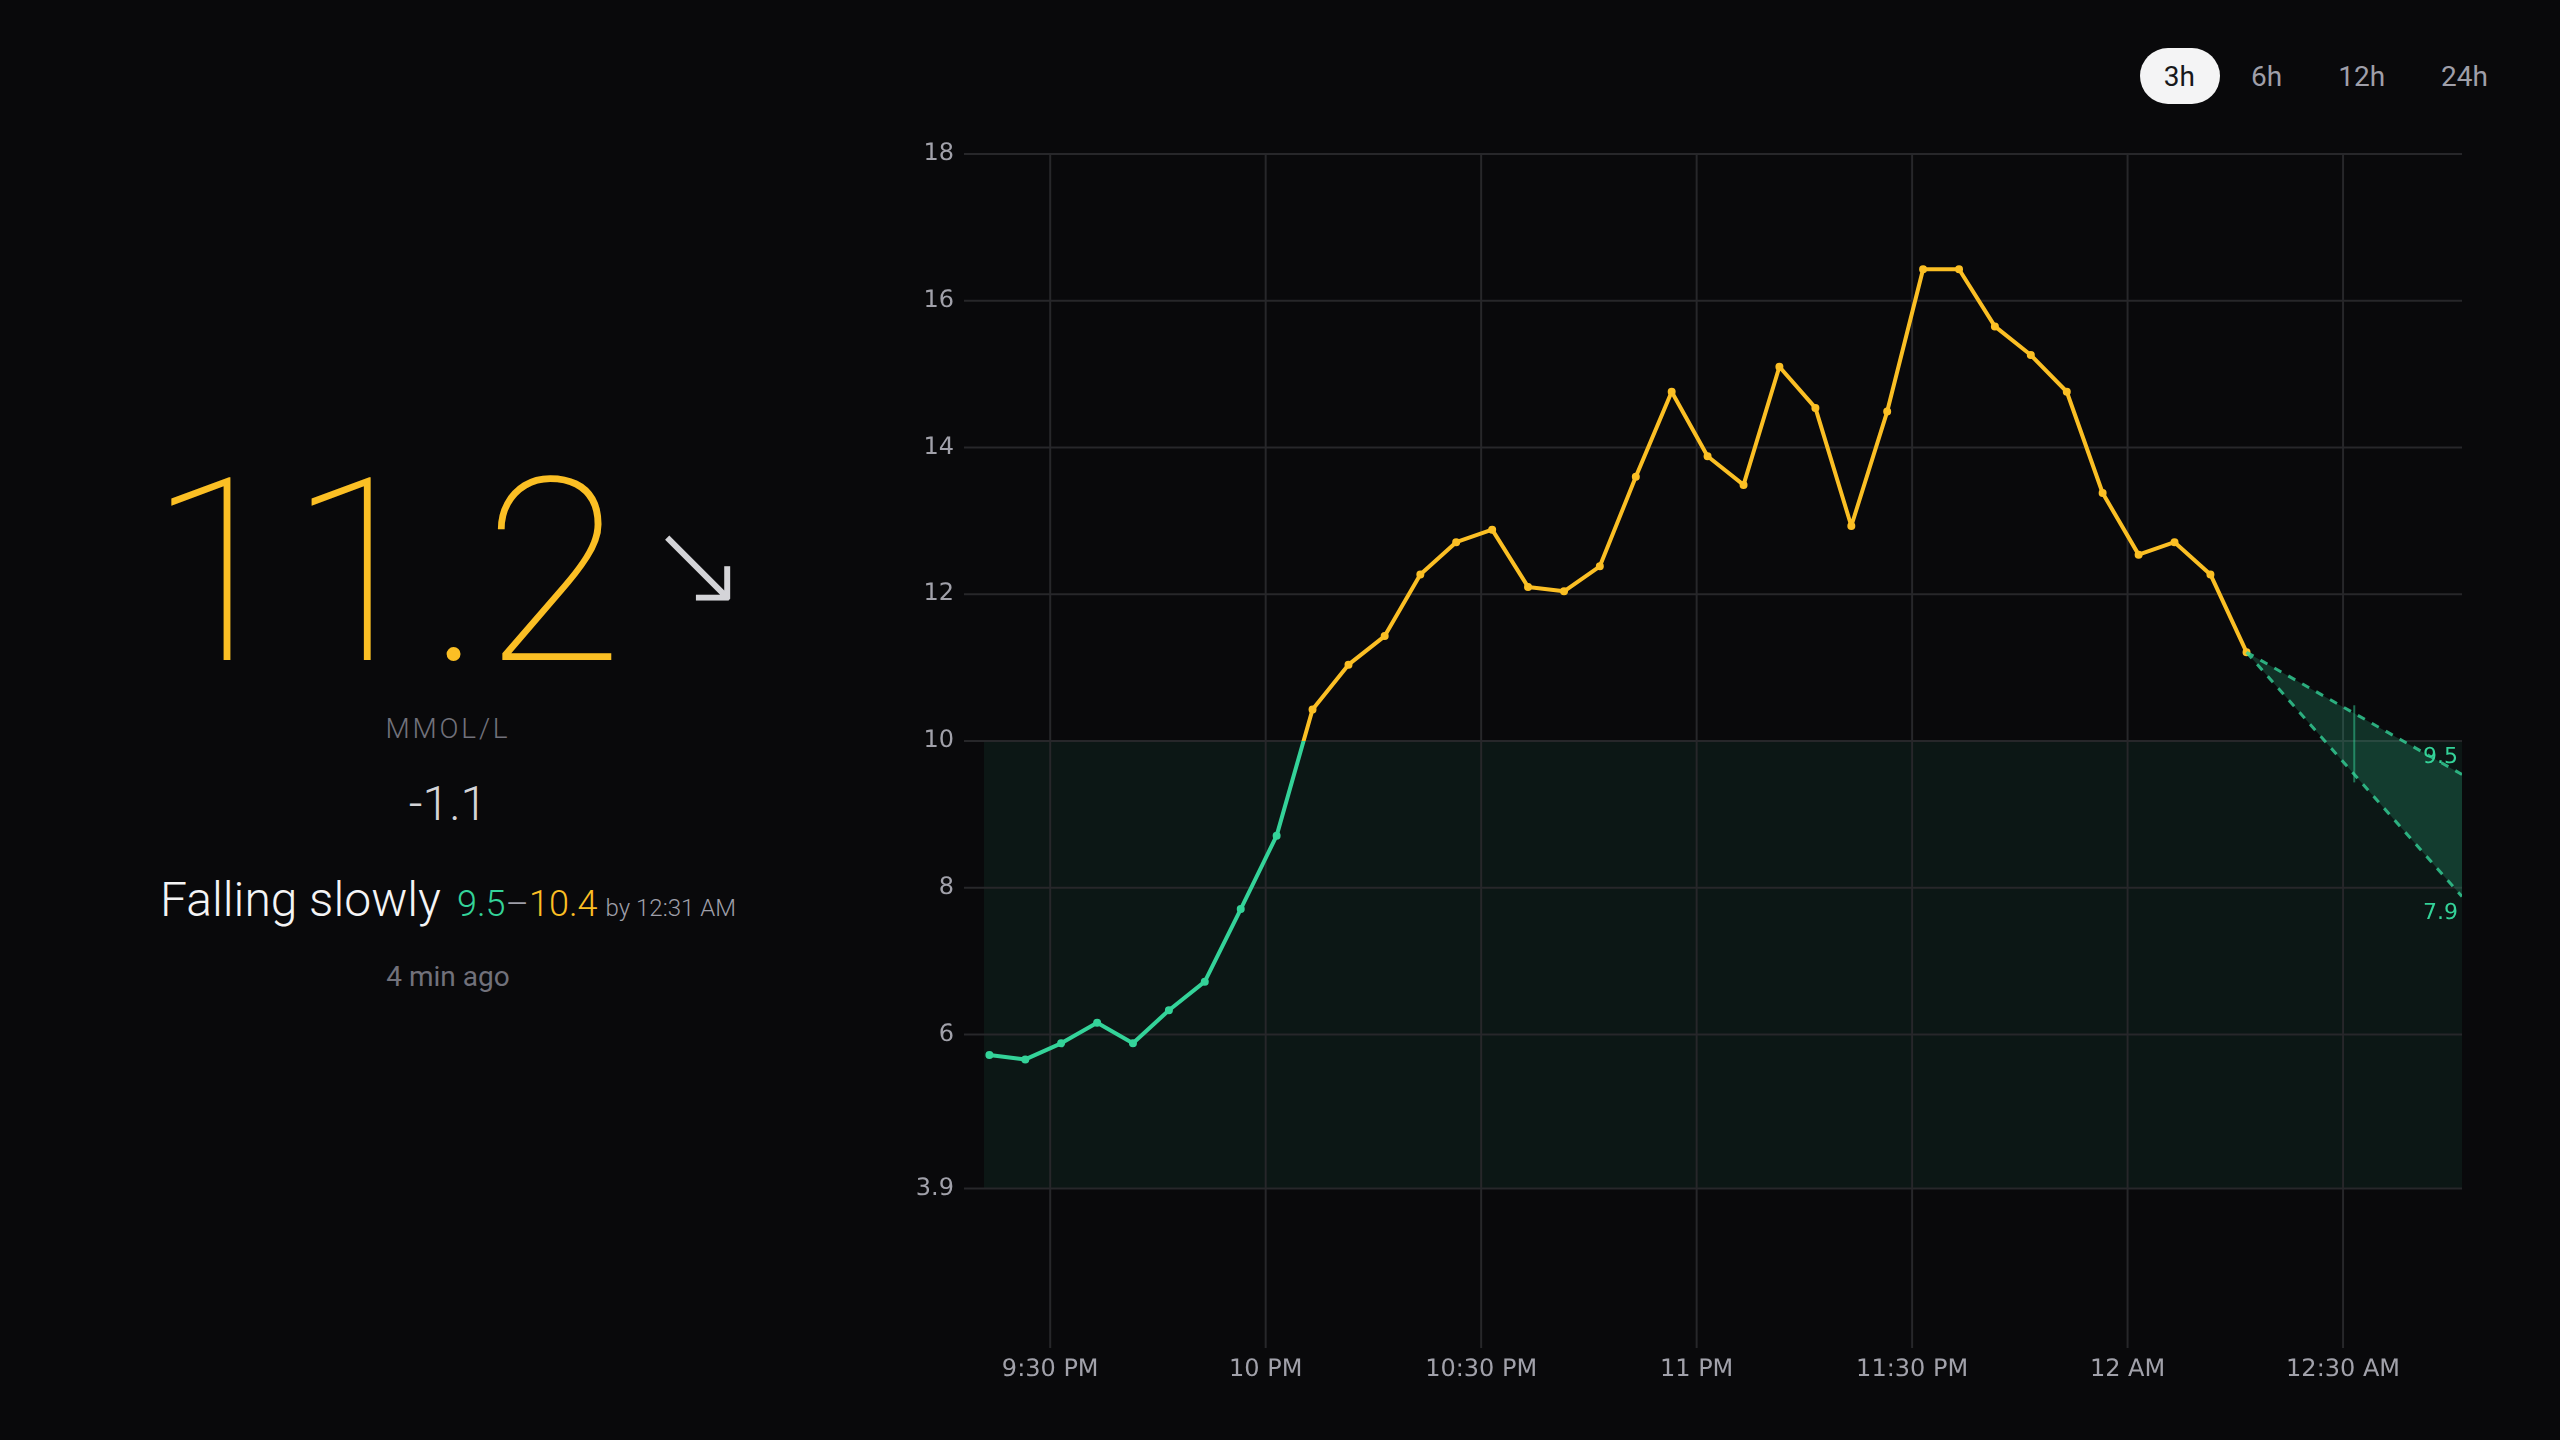
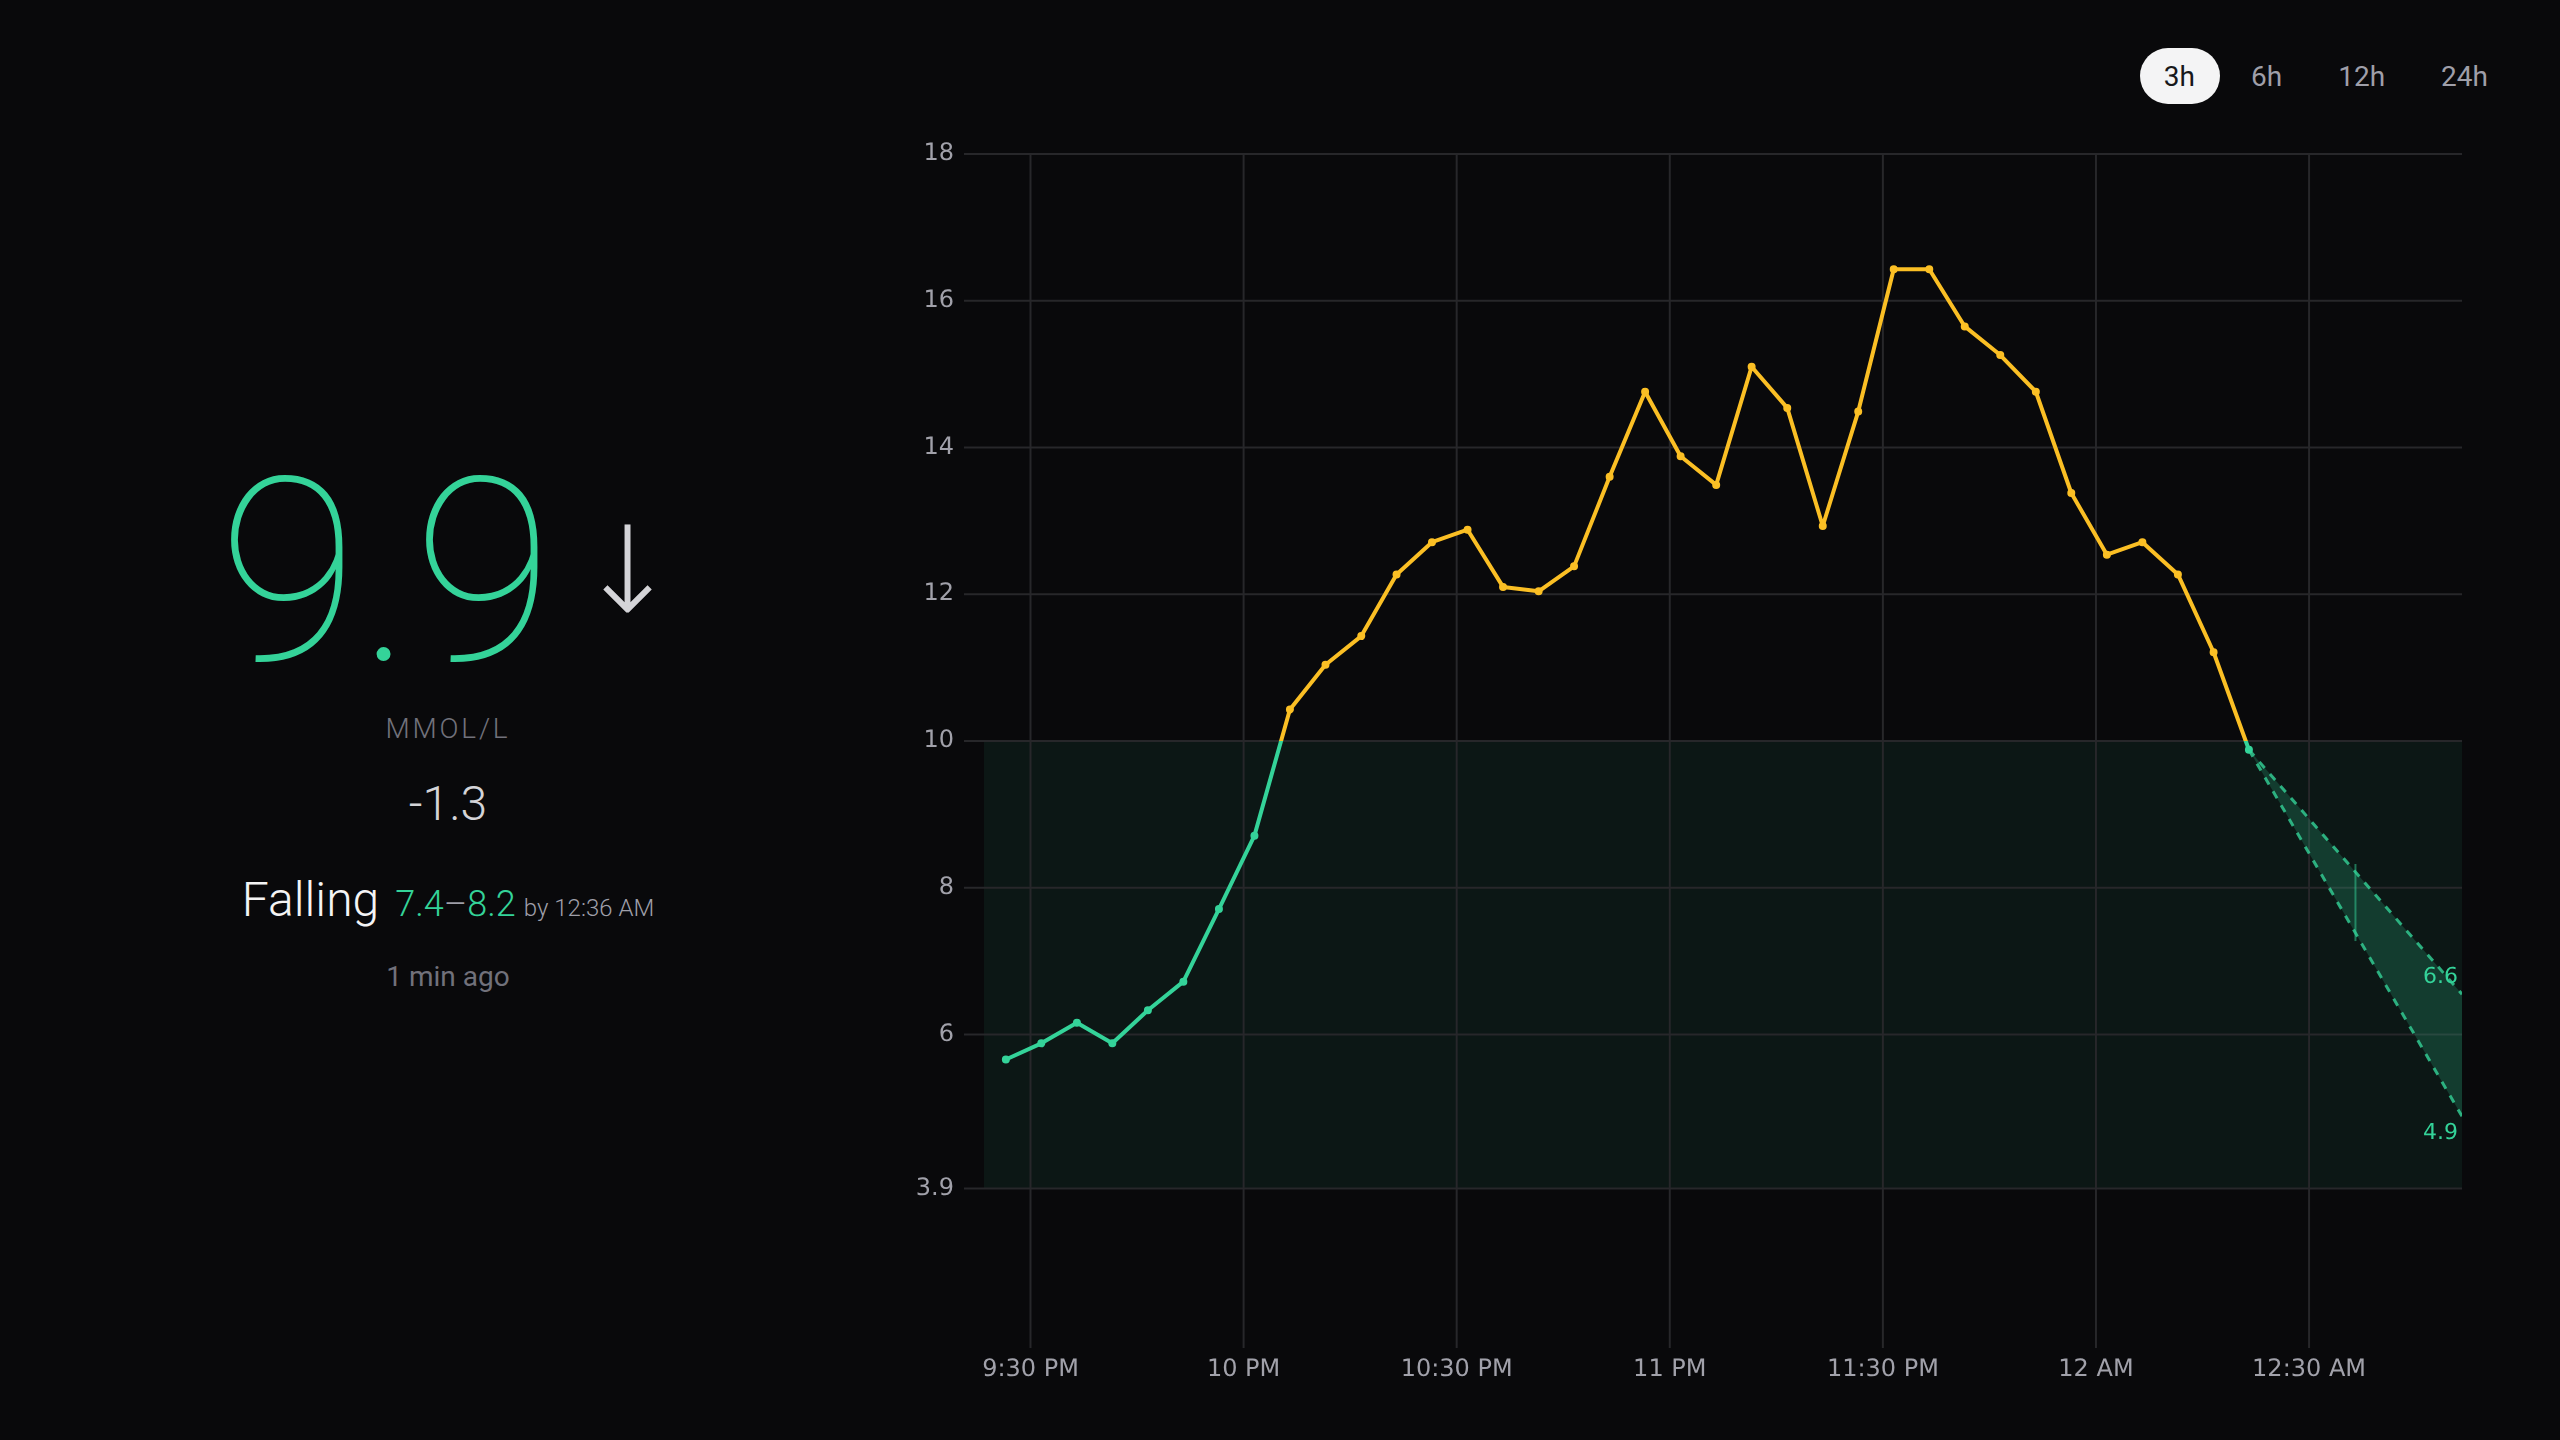
added mobile screenshot

diff --git a/README.md b/README.md
@@ -1,4 +1,7 @@
 # Dexter
 Dexcom web UI / api / database
 
-![Dexter](.github/screenshot.png)
+<p>
+    <img src=".github/screenshot.png" width="77%" alt="Desktop"/>
+    <img src=".github/screenshot-mobile.png" width="20%" alt="Mobile"/>
+</p>
